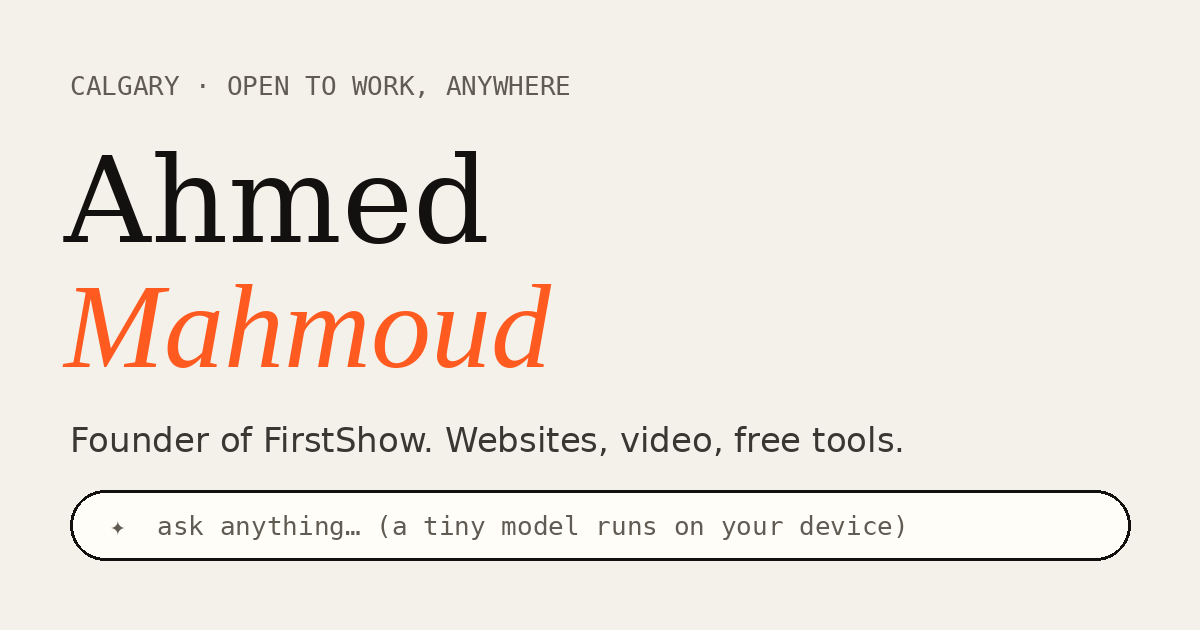
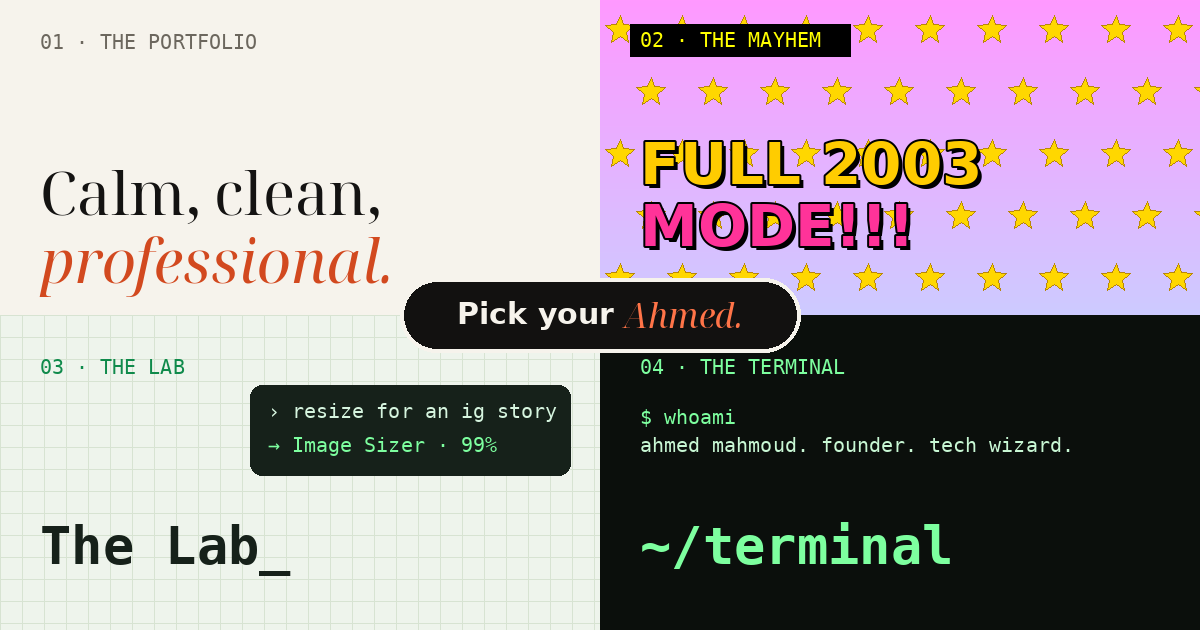
doors: live model demo, cursor glow, page transitions, og image, 404

diff --git a/index.html b/index.html
@@ -37,7 +37,7 @@ body{background:#121110;font:16px/1.5 "Inter",system-ui,sans-serif;overflow-x:hi
 .door .no{position:absolute;left:clamp(18px,4cqi,56px);top:clamp(16px,3.4cqi,44px);font:600 12px "JetBrains Mono",monospace;letter-spacing:.14em;text-transform:uppercase;opacity:.75}
 .door h2{margin:0;line-height:.95;flex-shrink:0}
 .door p,.door .go{flex-shrink:0}
-.door>.screen,.door>.chips{flex:0 1 auto;min-height:0;overflow:hidden;margin:clamp(30px,7cqi,64px) 0 auto}
+.door>.screen{flex:0 1 auto;min-height:0;overflow:hidden;margin:clamp(30px,7cqi,64px) 0 auto}
 .door p{margin:clamp(8px,2cqi,18px) 0 0;max-width:44ch;font-size:clamp(13px,2.4cqi,19px)}
 .door .more{max-height:0;opacity:0;overflow:hidden;margin:0;transition:opacity .35s,max-height .5s,margin .5s}
 .door:hover .more,.door:focus-visible .more{max-height:200px;opacity:1;margin-top:clamp(8px,2cqi,18px)}
@@ -106,6 +106,26 @@ body{background:#121110;font:16px/1.5 "Inter",system-ui,sans-serif;overflow-x:hi
 .about nav{display:flex;gap:18px;flex-wrap:wrap}
 
 
+
+/* ---- v3 polish ---- */
+@view-transition{navigation:auto}
+.sr{position:absolute;width:1px;height:1px;overflow:hidden;clip:rect(0 0 0 0);white-space:nowrap}
+.door::before{content:"";position:absolute;inset:0;pointer-events:none;z-index:0;background:radial-gradient(480px circle at var(--gx,50%) var(--gy,50%),var(--glow),transparent 62%);opacity:0;transition:opacity .4s}
+.door:hover::before{opacity:1}
+.door>*{position:relative;z-index:1}
+.door>.no,.door>.burst,.door>.marq{position:absolute}
+.d1{--glow:rgba(210,73,31,.13)}.d2{--glow:rgba(255,255,255,.35)}.d3{--glow:rgba(15,138,75,.16)}.d4{--glow:rgba(125,255,159,.12)}
+.top3{display:flex;flex-direction:column;align-items:flex-end;gap:12px}
+.door>.top3{flex:0 1 auto;min-height:0;overflow:hidden;margin:clamp(30px,7cqi,64px) 0 auto}
+.demo{font:500 clamp(11px,1.9cqi,14px) "JetBrains Mono",monospace;background:#16211a;color:#d6f5df;border-radius:10px;padding:10px 14px;min-width:min(100%,330px);box-shadow:0 8px 24px -12px rgba(15,60,35,.5)}
+.demo .q{display:block;white-space:nowrap;overflow:hidden;text-overflow:ellipsis}
+.demo .q::before{content:"› ";color:#7dff9f}
+.demo .q i{display:inline-block;width:.55em;height:1em;background:#7dff9f;vertical-align:-2px;animation:blink 1s steps(1) infinite;margin-left:2px}
+.demo .a{display:block;color:#7dff9f;margin-top:4px;min-height:1.3em;opacity:0;transition:opacity .25s}
+.demo .a.on{opacity:1}
+.demo .a b{color:#fff;font-weight:600}
+.demo .lbl{display:block;font-size:.8em;color:#7c9a84;margin-bottom:6px;letter-spacing:.06em;text-transform:uppercase}
+
 /* ---- v2 polish ---- */
 .door{min-width:0;min-height:0}
 /* entrance */
@@ -130,8 +150,8 @@ body{background:#121110;font:16px/1.5 "Inter",system-ui,sans-serif;overflow-x:hi
 .d2{animation-name:enter,drift;animation-duration:.9s,7s;animation-timing-function:cubic-bezier(.2,.8,.2,1),linear;animation-iteration-count:1,infinite;animation-fill-mode:both,none;animation-play-state:running,paused}
 .d2:hover{animation-play-state:running,running}
 @keyframes drift{to{background-position:70px 70px,0 0}}
-.chips,.burst{transition:translate .4s ease-out}
-.d3 .chips{translate:calc(var(--px,0)*14px) calc(var(--py,0)*10px)}
+.top3,.burst{transition:translate .4s ease-out}
+.d3 .top3{translate:calc(var(--px,0)*14px) calc(var(--py,0)*10px)}
 .d2 .burst{translate:calc(var(--px,0)*-12px) calc(var(--py,0)*-10px)}
 .d1 h2 em{background:linear-gradient(currentColor,currentColor) left 92%/0 2px no-repeat;transition:background-size .5s}
 .d1:hover h2 em{background-size:100% 2px}
@@ -142,7 +162,7 @@ body{background:#121110;font:16px/1.5 "Inter",system-ui,sans-serif;overflow-x:hi
 
 @media (max-width:860px){
   .doors{grid-template-columns:1fr;grid-template-rows:none;height:auto}
-  .door{min-height:72svh}
+  .door{min-height:58svh}
   .door .more{max-height:200px;opacity:1;margin-top:10px}
   .d2 p.more{padding-block:6px;border-width:2px}
   .ask{position:absolute;top:18px;transform:translateX(-50%)}
@@ -153,6 +173,7 @@ body{background:#121110;font:16px/1.5 "Inter",system-ui,sans-serif;overflow-x:hi
 </style>
 </head>
 <body>
+<h1 class="sr">Ahmed Mahmoud: Calgary founder, communications professional and tech wizard</h1>
 <main class="doors">
   <a class="door d1" href="/pro/">
     <span class="no">01 · the portfolio</span>
@@ -171,7 +192,10 @@ body{background:#121110;font:16px/1.5 "Inter",system-ui,sans-serif;overflow-x:hi
   </a>
   <a class="door d3" href="/lab/">
     <span class="no">03 · the lab</span>
-    <span class="chips" aria-hidden="true"><span>🖼 image sizer</span><span>💬 post preview</span><span>🔗 utm builder</span><span>✉ signatures</span><span>🎤 run of show</span><span>📡 stream calc</span><span>🤝 sponsorships</span><span>🌲 open trails</span><span>🎮 neongrid</span></span>
+    <span class="top3" aria-hidden="true">
+      <span class="demo"><span class="lbl">tiny model · running live</span><span class="q" id="dq"></span><span class="a" id="da"></span></span>
+      <span class="chips"><span>🖼 image sizer</span><span>💬 post preview</span><span>🔗 utm builder</span><span>✉ signatures</span><span>🎤 run of show</span><span>📡 stream calc</span><span>🤝 sponsorships</span><span>🌲 open trails</span><span>🎮 neongrid</span></span>
+    </span>
     <h2>The Lab<span>_</span></h2>
     <p>Fifteen free tools and experiments. Ask it anything: a tiny model I trained runs right in your browser.</p>
     <span class="go">Open the lab →</span>
@@ -201,10 +225,14 @@ body{background:#121110;font:16px/1.5 "Inter",system-ui,sans-serif;overflow-x:hi
   var doors = document.querySelector('.doors'), pill = document.querySelector('.ask'), d1 = document.querySelector('.d1');
   var reduce = matchMedia('(prefers-reduced-motion: reduce)').matches, wide = matchMedia('(hover:hover) and (min-width:861px)');
   // pill follows the seam where the four doors meet
-  (function seam(){
+  var until = 0, running = false;
+  function seam(){
     if (wide.matches) { var r = d1.getBoundingClientRect(); pill.style.setProperty('--sx', r.right + 'px'); pill.style.setProperty('--sy', r.bottom + 'px'); }
-    requestAnimationFrame(seam);
-  })();
+    if (performance.now() < until) requestAnimationFrame(seam); else running = false;
+  }
+  function wake(){ until = performance.now() + 900; if (!running) { running = true; requestAnimationFrame(seam); } }
+  ['pointerover','pointerout','focusin','focusout'].forEach(function(ev){ doors.addEventListener(ev, wake); });
+  addEventListener('resize', wake); wake();
   // step through a door
   function enter(a, e){
     if (e && (e.metaKey || e.ctrlKey || e.shiftKey || e.button === 1)) return;
@@ -221,12 +249,27 @@ body{background:#121110;font:16px/1.5 "Inter",system-ui,sans-serif;overflow-x:hi
     if (e.key === '~' || e.key === '`') { location.href = '/lab/#terminal'; return; }
     var i = '1234'.indexOf(e.key); if (i > -1) enter(doors.children[i]);
   });
+  // the lab door shows the real model at work (outputs measured from the shipped weights)
+  var DEMO = [["resize my pic for an ig story","Social Image Sizer",99],["upload speed for youtube 1080p","Stream Calculator",99],["plan a gala run of show","Run of Show Builder",100],["who is ahmed?","answers from verified facts",99],["utm link for my newsletter","UTM Builder",100],["is he open to remote work?","yes, anywhere",97],["price my sponsor packages","Sponsorship Builder",100],["play a game","NeonGrid",100]];
+  var dq = document.getElementById('dq'), da = document.getElementById('da'), di = 0;
+  function show(){
+    var d = DEMO[di++ % DEMO.length], n = 0;
+    da.classList.remove('on');
+    if (reduce) { dq.textContent = d[0]; da.innerHTML = '→ <b>' + d[1] + '</b> · ' + d[2] + '%'; da.classList.add('on'); return setTimeout(show, 3200); }
+    (function type(){
+      dq.innerHTML = d[0].slice(0, n).replace(/</g,'&lt;') + '<i></i>';
+      if (n++ < d[0].length) return setTimeout(type, 38 + Math.random() * 40);
+      setTimeout(function(){ da.innerHTML = '→ <b>' + d[1] + '</b> · ' + d[2] + '% · <1 ms'; da.classList.add('on'); }, 260);
+      setTimeout(show, 2600);
+    })();
+  }
+  show();
   // terminal re-types when you come back to it
   var scr = document.querySelector('.screen'), d4 = document.querySelector('.d4');
   d4.addEventListener('mouseenter', function(){ [].forEach.call(scr.children, function(l){ l.style.animation = 'none'; void l.offsetWidth; l.style.animation = ''; }); });
   // decorations lean toward the cursor
-  if (!reduce) [].forEach.call(document.querySelectorAll('.d2,.d3'), function(d){
-    d.addEventListener('pointermove', function(e){ var r = d.getBoundingClientRect(); d.style.setProperty('--px', ((e.clientX - r.left) / r.width - .5).toFixed(3)); d.style.setProperty('--py', ((e.clientY - r.top) / r.height - .5).toFixed(3)); });
+  if (!reduce) [].forEach.call(document.querySelectorAll('.door'), function(d){
+    d.addEventListener('pointermove', function(e){ var r = d.getBoundingClientRect(), x = e.clientX - r.left, y = e.clientY - r.top; d.style.setProperty('--gx', x + 'px'); d.style.setProperty('--gy', y + 'px'); d.style.setProperty('--px', (x / r.width - .5).toFixed(3)); d.style.setProperty('--py', (y / r.height - .5).toFixed(3)); });
     d.addEventListener('pointerleave', function(){ d.style.setProperty('--px', 0); d.style.setProperty('--py', 0); });
   });
 })();

diff --git a/404.html b/404.html
@@ -1,0 +1,37 @@
+<!doctype html>
+<html lang="en">
+<head>
+<meta charset="utf-8">
+<meta name="viewport" content="width=device-width, initial-scale=1">
+<title>404 · This door doesn't exist</title>
+<meta name="robots" content="noindex">
+<link rel="preconnect" href="https://fonts.googleapis.com"><link rel="preconnect" href="https://fonts.gstatic.com" crossorigin>
+<link href="https://fonts.googleapis.com/css2?family=Fraunces:ital,opsz,wght@1,9..144,400&family=JetBrains+Mono:wght@400;600&display=swap" rel="stylesheet">
+<style>
+@view-transition{navigation:auto}
+*{box-sizing:border-box}
+body{margin:0;min-height:100svh;display:grid;place-items:center;background:#0b0f0c;color:#c8f7d4;font:16px/1.6 "JetBrains Mono",monospace;padding:24px}
+.box{max-width:620px;width:100%}
+h1{font:italic 400 clamp(44px,8vw,84px)/1 "Fraunces",Georgia,serif;color:#f6f3ec;margin:0 0 18px;letter-spacing:-.03em}
+h1 span{color:#ff7448}
+pre{margin:0 0 24px;white-space:pre-wrap;color:#8fbf9c;text-shadow:0 0 6px rgba(125,255,159,.25)}
+pre b{color:#7dff9f;font-weight:600}
+nav{display:flex;flex-wrap:wrap;gap:10px}
+a{color:#0b0f0c;background:#7dff9f;text-decoration:none;font-weight:600;border-radius:8px;padding:9px 14px}
+a.alt{background:transparent;color:#c8f7d4;border:1px solid #2b3a2e}
+a:focus-visible{outline:2px solid #ff7448;outline-offset:3px}
+</style>
+</head>
+<body>
+<main class="box">
+  <h1>This door doesn't <span>exist.</span></h1>
+  <pre><b>$</b> open <span id="p"></span>
+open: no such door
+<b>$</b> ls doors/
+portfolio  mayhem  lab  terminal
+<b>$</b> ▍</pre>
+  <nav><a href="/">Back to the doors</a><a class="alt" href="/lab/">The Lab</a><a class="alt" href="/pro/">Portfolio</a></nav>
+</main>
+<script>document.getElementById('p').textContent = location.pathname;</script>
+</body>
+</html>

diff --git a/lab/index.html b/lab/index.html
@@ -19,6 +19,7 @@
 <link rel="preconnect" href="https://fonts.gstatic.com" crossorigin>
 <link href="https://fonts.googleapis.com/css2?family=Fraunces:ital,opsz,wght@0,9..144,300..700;1,9..144,400&family=Inter:wght@400;500;600&family=JetBrains+Mono:wght@400;600&family=Anton&display=swap" rel="stylesheet">
 <link rel="stylesheet" href="/assets/home.css">
+<style>@view-transition{navigation:auto}</style>
 <link rel="modulepreload" href="/assets/brain.js">
 <script type="application/ld+json">{"@context":"https://schema.org","@graph":[{"@type":"WebSite","@id":"https://lab.zalastack.com/#site","url":"https://lab.zalastack.com/","name":"Ahmed Mahmoud","author":{"@id":"https://lab.zalastack.com/#ahmed"}},{"@type":"Person","@id":"https://lab.zalastack.com/#ahmed","name":"Ahmed Mahmoud","alternateName":"mizoz","url":"https://lab.zalastack.com/","image":"https://lab.zalastack.com/assets/og.png","jobTitle":"Founder, FirstShow","description":"Calgary founder and builder. Founder of FirstShow, a sponsorship company for events, creators and venues across Canada. Makes websites, brands, photo, video and free web tools. Communications professional and tech wizard.","address":{"@type":"PostalAddress","addressLocality":"Calgary","addressRegion":"AB","addressCountry":"CA"},"worksFor":{"@type":"Organization","name":"FirstShow","url":"https://firstshow.ca"},"alumniOf":{"@type":"CollegeOrUniversity","name":"Southern Alberta Institute of Technology (SAIT)"},"knowsAbout":["digital communications","video production","photography","live streaming","websites","sponsorship","event marketing","social media","Google Ads","web development"],"sameAs":["https://github.com/mizoz","https://www.linkedin.com/in/ahmed-m-82ba28169/","https://firstshow.ca","https://frameyyc.ca"]}]}</script>
 </head>

diff --git a/pro/index.html b/pro/index.html
@@ -18,6 +18,7 @@
 <link href="https://fonts.googleapis.com/css2?family=Fraunces:opsz,wght@9..144,400;9..144,600&family=Inter:wght@400;500;600&display=swap" rel="stylesheet">
 <script type="application/ld+json">{"@context":"https://schema.org","@graph":[{"@type":"ProfilePage","url":"https://lab.zalastack.com/pro/","dateModified":"2026-10-21","mainEntity":{"@id":"https://lab.zalastack.com/#ahmed"}},{"@type":"Person","@id":"https://lab.zalastack.com/#ahmed","name":"Ahmed Mahmoud","alternateName":"mizoz","url":"https://lab.zalastack.com/","jobTitle":"Founder, FirstShow","description":"Calgary founder and builder. Founder of FirstShow, a sponsorship company for events, creators and venues across Canada. Makes websites, brands, photo, video and free web tools. Communications professional and tech wizard.","address":{"@type":"PostalAddress","addressLocality":"Calgary","addressRegion":"AB","addressCountry":"CA"},"worksFor":{"@type":"Organization","name":"FirstShow","url":"https://firstshow.ca"},"alumniOf":{"@type":"CollegeOrUniversity","name":"Southern Alberta Institute of Technology (SAIT)"},"knowsAbout":["digital communications","video production","photography","live streaming","websites","sponsorship","event marketing","social media","Google Ads","web development"],"sameAs":["https://github.com/mizoz","https://www.linkedin.com/in/ahmed-m-82ba28169/","https://firstshow.ca","https://frameyyc.ca"]}]}</script>
 <style>
+@view-transition{navigation:auto}
 :root{
   --bg:#f6f3ec;--paper:#fffdf8;--ink:#141312;--muted:#5f5b54;--line:#e2ddd1;--accent:#d2491f;--accent-ink:#fff;
   --serif:"Fraunces",Georgia,"Times New Roman",serif;--sans:"Inter",system-ui,-apple-system,"Segoe UI",Roboto,sans-serif;
